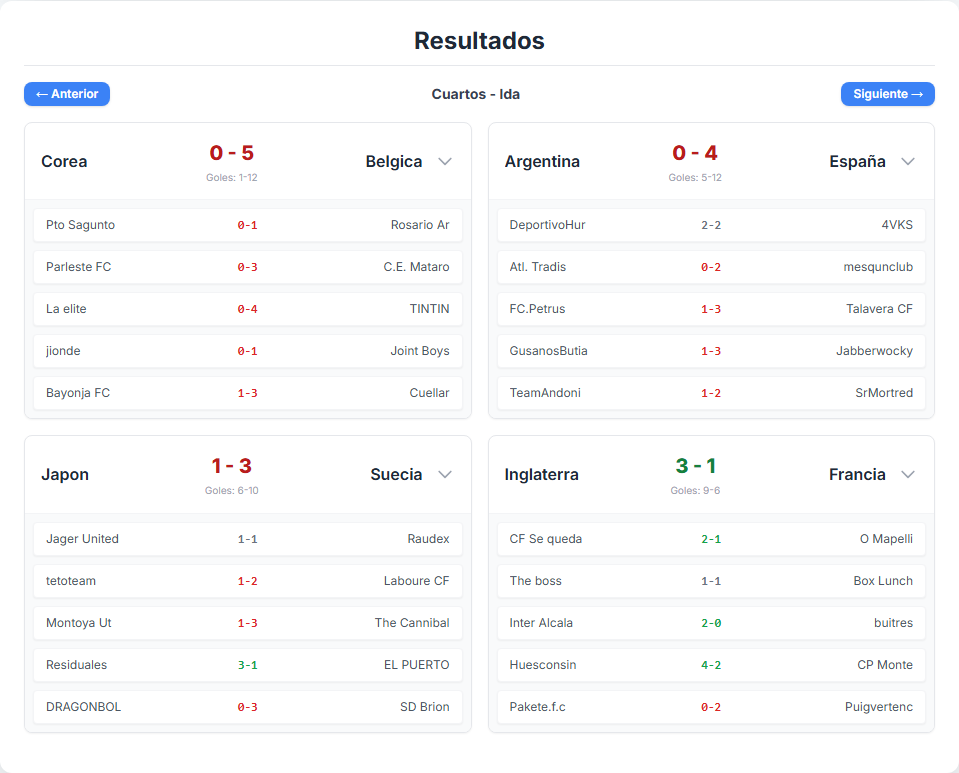
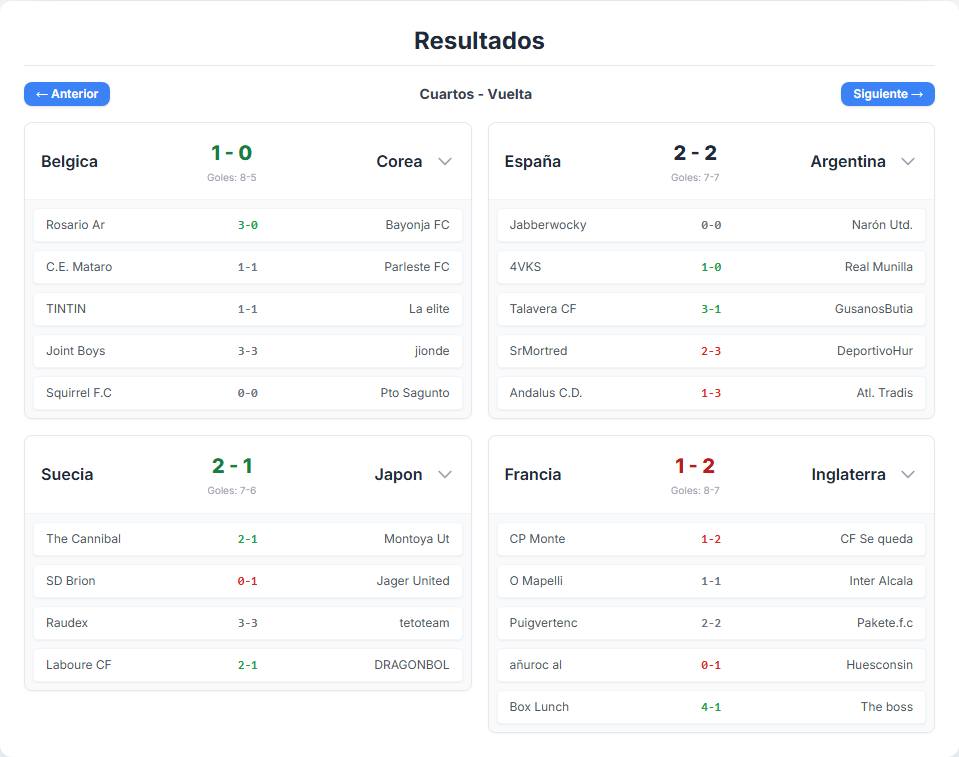
Actualización automática: 2025-12-13 09:06:47

diff --git a/index.html b/index.html
@@ -5485,163 +5485,155 @@
     },
     {
         "local": "Rosario Ar",
-        "gl": null,
-        "gv": null,
+        "gl": 3,
+        "gv": 0,
         "visit": "Bayonja FC",
         "jornada": 11,
-        "is_scheduled": true
+        "is_scheduled": false
     },
     {
         "local": "C.E. Mataro",
-        "gl": null,
-        "gv": null,
+        "gl": 1,
+        "gv": 1,
         "visit": "Parleste FC",
         "jornada": 11,
-        "is_scheduled": true
+        "is_scheduled": false
     },
     {
         "local": "TINTIN",
-        "gl": null,
-        "gv": null,
+        "gl": 1,
+        "gv": 1,
         "visit": "La elite",
         "jornada": 11,
-        "is_scheduled": true
+        "is_scheduled": false
     },
     {
         "local": "Joint Boys",
-        "gl": null,
-        "gv": null,
+        "gl": 3,
+        "gv": 3,
         "visit": "jionde",
         "jornada": 11,
-        "is_scheduled": true
+        "is_scheduled": false
     },
     {
         "local": "Squirrel F.C",
-        "gl": null,
-        "gv": null,
+        "gl": 0,
+        "gv": 0,
         "visit": "Pto Sagunto",
         "jornada": 11,
-        "is_scheduled": true
+        "is_scheduled": false
     },
     {
         "local": "The Cannibal",
-        "gl": null,
-        "gv": null,
+        "gl": 2,
+        "gv": 1,
         "visit": "Montoya Ut",
         "jornada": 11,
-        "is_scheduled": true
-    },
-    {
-        "local": "Águilas",
-        "gl": null,
-        "gv": null,
-        "visit": "Residuales",
-        "jornada": 11,
-        "is_scheduled": true
+        "is_scheduled": false
     },
     {
         "local": "SD Brion",
-        "gl": null,
-        "gv": null,
+        "gl": 0,
+        "gv": 1,
         "visit": "Jager United",
         "jornada": 11,
-        "is_scheduled": true
+        "is_scheduled": false
     },
     {
         "local": "Raudex",
-        "gl": null,
-        "gv": null,
+        "gl": 3,
+        "gv": 3,
         "visit": "tetoteam",
         "jornada": 11,
-        "is_scheduled": true
+        "is_scheduled": false
     },
     {
         "local": "Laboure CF",
-        "gl": null,
-        "gv": null,
+        "gl": 2,
+        "gv": 1,
         "visit": "DRAGONBOL",
         "jornada": 11,
-        "is_scheduled": true
+        "is_scheduled": false
     },
     {
         "local": "Jabberwocky",
-        "gl": null,
-        "gv": null,
+        "gl": 0,
+        "gv": 0,
         "visit": "Narón Utd.",
         "jornada": 11,
-        "is_scheduled": true
+        "is_scheduled": false
     },
     {
         "local": "4VKS",
-        "gl": null,
-        "gv": null,
+        "gl": 1,
+        "gv": 0,
         "visit": "Real Munilla",
         "jornada": 11,
-        "is_scheduled": true
+        "is_scheduled": false
     },
     {
         "local": "Talavera CF",
-        "gl": null,
-        "gv": null,
+        "gl": 3,
+        "gv": 1,
         "visit": "GusanosButia",
         "jornada": 11,
-        "is_scheduled": true
+        "is_scheduled": false
     },
     {
         "local": "SrMortred",
-        "gl": null,
-        "gv": null,
+        "gl": 2,
+        "gv": 3,
         "visit": "DeportivoHur",
         "jornada": 11,
-        "is_scheduled": true
+        "is_scheduled": false
     },
     {
         "local": "Andalus C.D.",
-        "gl": null,
-        "gv": null,
+        "gl": 1,
+        "gv": 3,
         "visit": "Atl. Tradis",
         "jornada": 11,
-        "is_scheduled": true
+        "is_scheduled": false
     },
     {
         "local": "CP Monte",
-        "gl": null,
-        "gv": null,
+        "gl": 1,
+        "gv": 2,
         "visit": "CF Se queda",
         "jornada": 11,
-        "is_scheduled": true
+        "is_scheduled": false
     },
     {
         "local": "O Mapelli",
-        "gl": null,
-        "gv": null,
+        "gl": 1,
+        "gv": 1,
         "visit": "Inter Alcala",
         "jornada": 11,
-        "is_scheduled": true
+        "is_scheduled": false
     },
     {
         "local": "Puigvertenc",
-        "gl": null,
-        "gv": null,
+        "gl": 2,
+        "gv": 2,
         "visit": "Pakete.f.c",
         "jornada": 11,
-        "is_scheduled": true
+        "is_scheduled": false
     },
     {
         "local": "añuroc al",
-        "gl": null,
-        "gv": null,
+        "gl": 0,
+        "gv": 1,
         "visit": "Huesconsin",
         "jornada": 11,
-        "is_scheduled": true
+        "is_scheduled": false
     },
     {
         "local": "Box Lunch",
-        "gl": null,
-        "gv": null,
+        "gl": 4,
+        "gv": 1,
         "visit": "The boss",
         "jornada": 11,
-        "is_scheduled": true
+        "is_scheduled": false
     }
 ];
 
